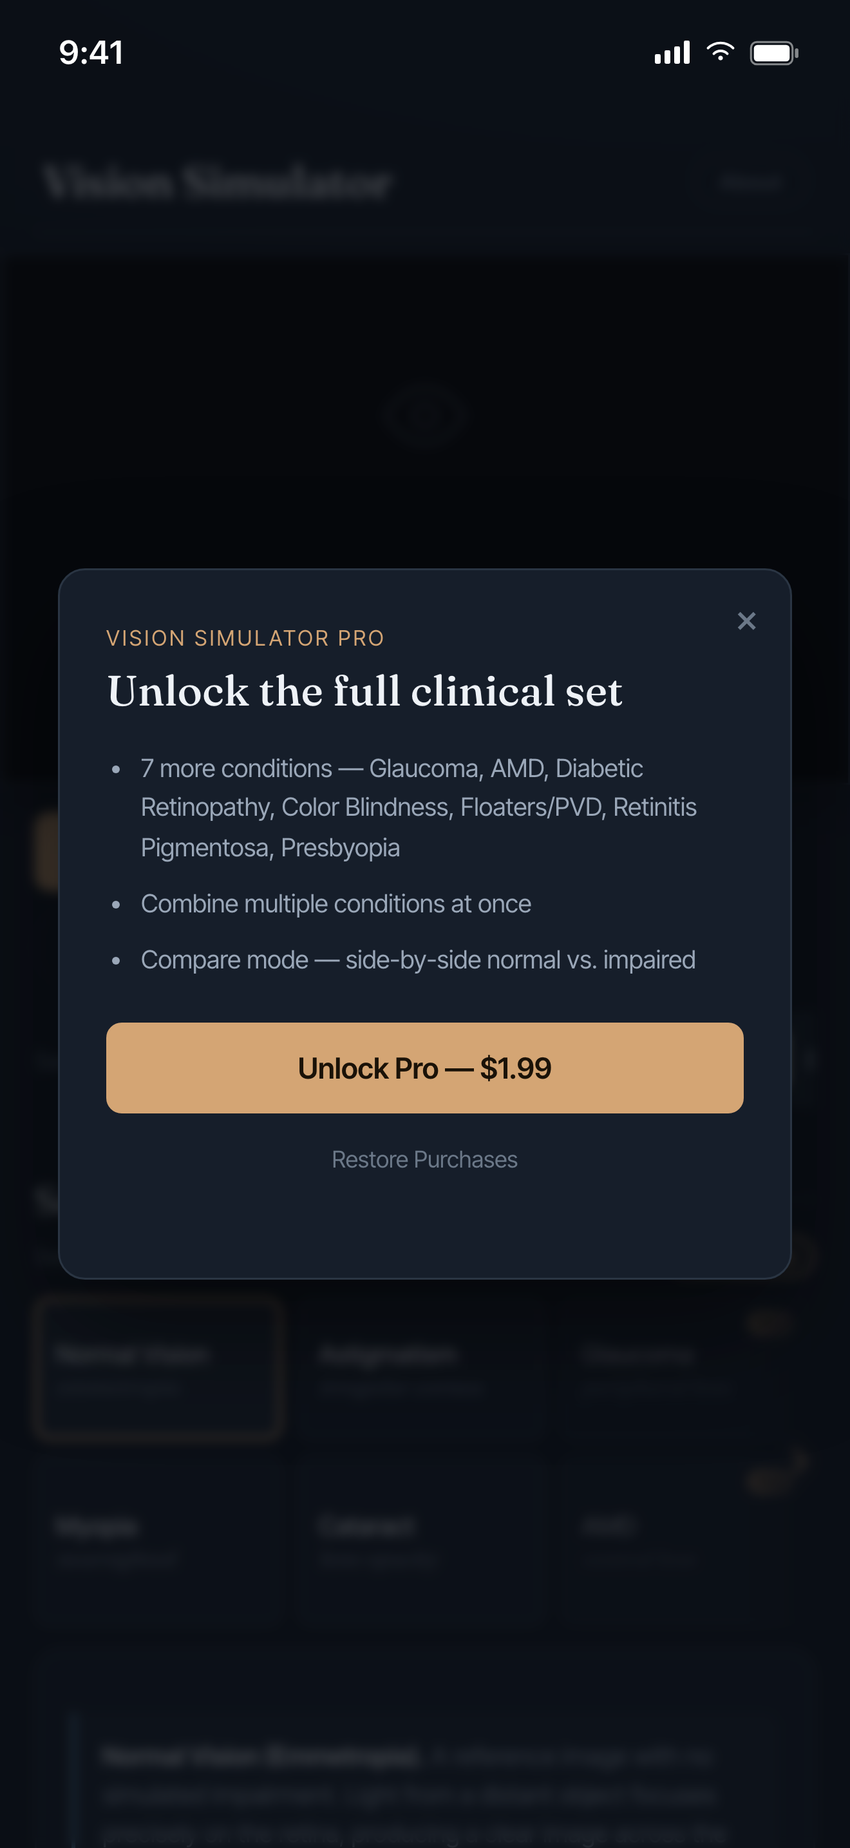
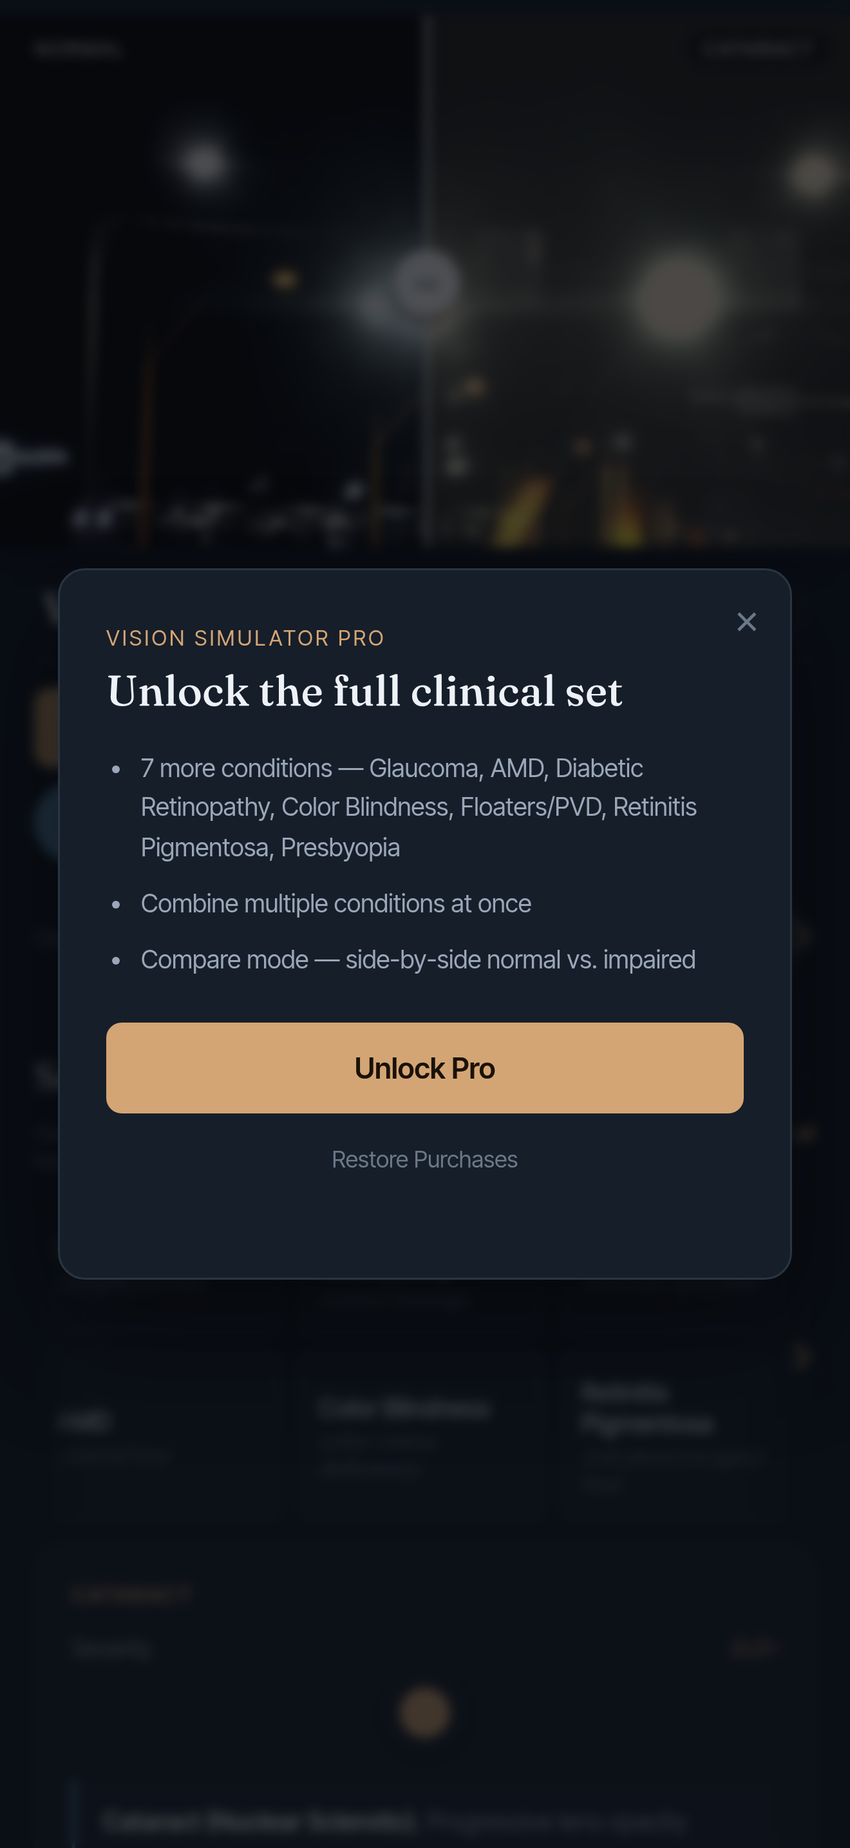
Remove the owner's name and old prices from Vision Simulator.
User-facing copy now says Vision Simulator App, built by an optometrist, and marketing images no longer show a price.

diff --git a/vision-simulator/index.html b/vision-simulator/index.html
@@ -5,8 +5,8 @@
 <meta name="viewport" content="width=device-width, initial-scale=1.0, maximum-scale=1.0, user-scalable=no, viewport-fit=cover">
 <meta name="apple-mobile-web-app-capable" content="yes">
 <meta name="theme-color" content="#0f1620">
-<title>Vision Simulator by Dr. Evans</title>
-<meta name="description" content="See cataracts, glaucoma, AMD, and other eye conditions through a clinically informed simulator by Dr. Ryan Evans, OD. Free on the App Store for iPhone and iPad.">
+<title>Vision Simulator: Eye Disease</title>
+<meta name="description" content="See cataracts, glaucoma, AMD, and other eye conditions through a clinically informed simulator built by an optometrist. Free on the App Store for iPhone and iPad.">
 <link rel="canonical" href="https://rjlcevans.com/vision-simulator/">
 <meta name="apple-itunes-app" content="app-id=6772865195">
 <link rel="preconnect" href="https://fonts.googleapis.com">
@@ -641,11 +641,11 @@
 </style>
   <meta property="og:type" content="website">
   <meta property="og:url" content="https://rjlcevans.com/vision-simulator/">
-  <meta property="og:title" content="Vision Simulator by Dr. Evans">
-  <meta property="og:description" content="See cataracts, glaucoma, AMD, and other eye conditions the way patients do. A clinically informed simulator by Dr. Ryan Evans, OD — free on the App Store.">
+  <meta property="og:title" content="Vision Simulator: Eye Disease">
+  <meta property="og:description" content="See cataracts, glaucoma, AMD, and other eye conditions the way patients do. A clinically informed simulator built by an optometrist — free on the App Store.">
   <meta property="og:image" content="https://rjlcevans.com/vision-simulator/visionsim-icon-1024.PNG">
   <meta name="twitter:card" content="summary_large_image">
-  <meta name="twitter:title" content="Vision Simulator by Dr. Evans">
+  <meta name="twitter:title" content="Vision Simulator: Eye Disease">
   <meta name="twitter:description" content="See cataracts, glaucoma, AMD, and other eye conditions the way patients do. Free on the App Store.">
   <meta name="twitter:image" content="https://rjlcevans.com/vision-simulator/visionsim-icon-1024.PNG">
 <script src="shell-detect.js?v=20261019"></script>
@@ -668,15 +668,14 @@
 <body>
 <div id="storeGate">
   <div class="gate-card">
-    <p class="eyebrow">Dr. Ryan Evans, OD</p>
+    <p class="eyebrow">Built by an optometrist</p>
     <h1>Vision Simulator</h1>
     <p class="sub">See cataracts, glaucoma, macular degeneration, and other eye conditions the way patients do. The simulator runs in the iPhone and iPad app.</p>
-    <a class="btn primary" id="storeGateBtn" href="https://apps.apple.com/us/app/vision-simulator-by-dr-evans/id6772865195">View on the App Store</a>
+    <a class="btn primary" id="storeGateBtn" href="https://apps.apple.com/app/id6772865195">View on the App Store</a>
     <p class="gate-note" id="storeGateNote" hidden>Opening the App Store…</p>
-    <a class="gate-home" href="https://rjlcevans.com/">Evans Family home</a>
   </div>
 </div>
-<a href="/" id="backToSite" style="position:fixed;top:14px;left:14px;z-index:9999;background:rgba(0,0,0,.38);backdrop-filter:blur(8px);-webkit-backdrop-filter:blur(8px);color:#fff;text-decoration:none;padding:6px 14px;border-radius:20px;font-size:.85rem;font-weight:500;letter-spacing:.01em;transition:background .2s" onmouseover="this.style.background='rgba(0,0,0,.65)'" onmouseout="this.style.background='rgba(0,0,0,.38)'">← Evans Family</a>
+<a href="/" id="backToSite" style="position:fixed;top:14px;left:14px;z-index:9999;background:rgba(0,0,0,.38);backdrop-filter:blur(8px);-webkit-backdrop-filter:blur(8px);color:#fff;text-decoration:none;padding:6px 14px;border-radius:20px;font-size:.85rem;font-weight:500;letter-spacing:.01em;transition:background .2s" onmouseover="this.style.background='rgba(0,0,0,.65)'" onmouseout="this.style.background='rgba(0,0,0,.38)'">← rjlcevans.com</a>
 <div class="wrap">
 
   <header class="hero">
@@ -687,9 +686,9 @@
     <p class="eyebrow">Patient education · Educational use only</p>
     <h1>How the World Looks <em>Through Other Eyes</em></h1>
     <p class="sub">A clinically-informed simulator for refractive error, cataract, glaucoma, age-related macular degeneration, diabetic retinopathy, and vitreous floaters. Use the camera or upload an image to explore.</p>
-    <span class="credit">Built by Dr. Ryan Evans, OD</span>
+    <span class="credit">Built by an optometrist</span>
     <div id="appStoreBadge" style="margin-top:14px;">
-      <a href="https://apps.apple.com/app/vision-simulator-by-dr-evans/id6772865195" target="_blank" rel="noopener noreferrer">
+      <a href="https://apps.apple.com/app/id6772865195" target="_blank" rel="noopener noreferrer">
         <img src="https://tools.applemediaservices.com/api/badges/download-on-the-app-store/black/en-us?size=250x83" alt="Download on the App Store" style="height:32px;display:inline-block;">
       </a>
     </div>
@@ -776,7 +775,7 @@
 
   <h2 class="section-title">Select Condition</h2>
   <div class="conditions-header">
-    <p class="conditions-hint">Swipe for all 11 · tap to switch · Combine to layer several</p>
+    <p class="conditions-hint">Swipe for every condition · tap to switch · Combine to layer several</p>
     <button type="button" class="combine-conditions-btn compare-switch" id="compareSwitch" role="switch" aria-checked="false"><span>Compare</span><span class="vs-switch" aria-hidden="true"></span></button>
     <button type="button" class="combine-conditions-btn" id="combineConditionsBtn" aria-pressed="false">Combine: Off</button>
     <button type="button" class="unlock-pro-btn" id="unlockProBtn">Unlock Pro</button>
@@ -807,8 +806,8 @@
   </div>
 
   <footer>
-    <span>© Dr. Ryan Evans, OD · For educational demonstration only · Not a diagnostic tool</span>
-    <a href="https://rjlcevans.com/" id="homeLink">← Return to Evans Family Home</a>
+    <span>© Vision Simulator App · For educational demonstration only · Not a diagnostic tool</span>
+    <a href="https://rjlcevans.com/" id="homeLink">← rjlcevans.com</a>
     <a href="https://rjlcevans.com/privacy" id="privacyLink" style="display:none;">Privacy Policy</a>
   </footer>
 </div>
@@ -820,9 +819,9 @@
     <button type="button" class="sheet-done" id="aboutDone">Done</button>
     <div class="sheet-head">
       <img src="icon.svg" alt="">
-      <div><h3 class="sheet-title" id="aboutTitle">Vision Simulator</h3><p class="sheet-by">By Dr. Ryan Evans, OD</p></div>
+      <div><h3 class="sheet-title" id="aboutTitle">Vision Simulator</h3><p class="sheet-by">By an optometrist</p></div>
     </div>
-    <p class="sheet-body">See how 11 common eye conditions can change everyday vision, from cataract glare and glaucoma's tunnel vision to the central loss of macular degeneration. Use the live camera, a built-in scene, or your own photo.</p>
+    <p class="sheet-body">See how 10 common eye conditions can change everyday vision, from cataract glare and glaucoma's tunnel vision to the central loss of macular degeneration. Use the live camera, a built-in scene, or your own photo.</p>
     <p class="sheet-note"><strong>For education only.</strong> These simulations approximate how a condition can affect sight. They are not a diagnosis or a vision test. See an eye doctor about any change in your vision.</p>
     <div class="sheet-list">
       <button type="button" id="aboutRestore">Restore Purchases <span class="chev" aria-hidden="true">›</span></button>
@@ -2992,7 +2991,7 @@ window.__vsBootSimulator = () => {
 </script>
 
 <script>
-  const STORE_URL = 'https://apps.apple.com/us/app/vision-simulator-by-dr-evans/id6772865195';
+  const STORE_URL = 'https://apps.apple.com/app/id6772865195';
   let storeRedirectTimer = null;
 
   function applyNativeChrome() {

diff --git a/vision-simulator-staging/index.html b/vision-simulator-staging/index.html
@@ -6,7 +6,7 @@
 <meta name="viewport" content="width=device-width, initial-scale=1.0, maximum-scale=1.0, user-scalable=no, viewport-fit=cover">
 <meta name="apple-mobile-web-app-capable" content="yes">
 <meta name="theme-color" content="#0f1620">
-<title>Vision Impairment Simulator — Dr. Ryan Evans, OD</title>
+<title>Vision Simulator: Eye Disease</title>
 <link rel="preconnect" href="https://fonts.googleapis.com">
 <link rel="preconnect" href="https://fonts.gstatic.com" crossorigin>
 <link href="https://fonts.googleapis.com/css2?family=Fraunces:opsz,wght@9..144,400;9..144,500;9..144,600;9..144,700&family=Inter+Tight:wght@400;500;600&display=swap" rel="stylesheet">
@@ -604,16 +604,16 @@
 </style>
   <meta property="og:type" content="website">
   <meta property="og:url" content="https://rjlcevans.com/vision-simulator/">
-  <meta property="og:title" content="Vision Impairment Simulator | rjlcevans.com">
+  <meta property="og:title" content="Vision Simulator: Eye Disease">
   <meta property="og:description" content="See the world through different eyes — experience cataracts, glaucoma, AMD, floaters, and refractive error in real time.">
-  <meta property="og:image" content="https://rjlcevans.com/family.jpg">
+  <meta property="og:image" content="https://rjlcevans.com/vision-simulator/visionsim-icon-1024.PNG">
   <meta name="twitter:card" content="summary_large_image">
-  <meta name="twitter:title" content="Vision Impairment Simulator | rjlcevans.com">
+  <meta name="twitter:title" content="Vision Simulator: Eye Disease">
   <meta name="twitter:description" content="See the world through different eyes — experience cataracts, glaucoma, AMD, floaters, and refractive error in real time.">
-  <meta name="twitter:image" content="https://rjlcevans.com/family.jpg">
+  <meta name="twitter:image" content="https://rjlcevans.com/vision-simulator/visionsim-icon-1024.PNG">
 </head>
 <body>
-<a href="/" id="backToSite" style="position:fixed;top:14px;left:14px;z-index:9999;background:rgba(0,0,0,.38);backdrop-filter:blur(8px);-webkit-backdrop-filter:blur(8px);color:#fff;text-decoration:none;padding:6px 14px;border-radius:20px;font-size:.85rem;font-weight:500;letter-spacing:.01em;transition:background .2s" onmouseover="this.style.background='rgba(0,0,0,.65)'" onmouseout="this.style.background='rgba(0,0,0,.38)'">← Evans Family</a>
+<a href="/" id="backToSite" style="position:fixed;top:14px;left:14px;z-index:9999;background:rgba(0,0,0,.38);backdrop-filter:blur(8px);-webkit-backdrop-filter:blur(8px);color:#fff;text-decoration:none;padding:6px 14px;border-radius:20px;font-size:.85rem;font-weight:500;letter-spacing:.01em;transition:background .2s" onmouseover="this.style.background='rgba(0,0,0,.65)'" onmouseout="this.style.background='rgba(0,0,0,.38)'">← rjlcevans.com</a>
 <div class="wrap">
 
   <header class="hero">
@@ -624,9 +624,9 @@
     <p class="eyebrow">Patient education · Educational use only</p>
     <h1>How the World Looks <em>Through Other Eyes</em></h1>
     <p class="sub">A clinically-informed simulator for refractive error, cataract, glaucoma, age-related macular degeneration, diabetic retinopathy, and vitreous floaters. Use the camera or upload an image to explore.</p>
-    <span class="credit">Built by Dr. Ryan Evans, OD</span>
+    <span class="credit">Built by an optometrist</span>
     <div id="appStoreBadge" style="margin-top:14px;">
-      <a href="https://apps.apple.com/app/vision-simulator-by-dr-evans/id6772865195" target="_blank" rel="noopener noreferrer">
+      <a href="https://apps.apple.com/app/id6772865195" target="_blank" rel="noopener noreferrer">
         <img src="https://tools.applemediaservices.com/api/badges/download-on-the-app-store/black/en-us?size=250x83" alt="Download on the App Store" style="height:32px;display:inline-block;">
       </a>
     </div>
@@ -713,7 +713,7 @@
 
   <h2 class="section-title">Select Condition</h2>
   <div class="conditions-header">
-    <p class="conditions-hint">Swipe for all 11 · tap to switch · Combine to layer several</p>
+    <p class="conditions-hint">Swipe for every condition · tap to switch · Combine to layer several</p>
     <button type="button" class="combine-conditions-btn compare-switch" id="compareSwitch" role="switch" aria-checked="false"><span>Compare</span><span class="vs-switch" aria-hidden="true"></span></button>
     <button type="button" class="combine-conditions-btn" id="combineConditionsBtn" aria-pressed="false">Combine: Off</button>
     <button type="button" class="unlock-pro-btn" id="unlockProBtn">Unlock Pro</button>
@@ -744,8 +744,8 @@
   </div>
 
   <footer>
-    <span>© Dr. Ryan Evans, OD · For educational demonstration only · Not a diagnostic tool</span>
-    <a href="https://rjlcevans.com/" id="homeLink">← Return to Evans Family Home</a>
+    <span>© Vision Simulator App · For educational demonstration only · Not a diagnostic tool</span>
+    <a href="https://rjlcevans.com/" id="homeLink">← rjlcevans.com</a>
     <a href="https://rjlcevans.com/privacy" id="privacyLink" style="display:none;">Privacy Policy</a>
   </footer>
 </div>
@@ -757,9 +757,9 @@
     <button type="button" class="sheet-done" id="aboutDone">Done</button>
     <div class="sheet-head">
       <img src="icon.svg" alt="">
-      <div><h3 class="sheet-title" id="aboutTitle">Vision Simulator</h3><p class="sheet-by">By Dr. Ryan Evans, OD</p></div>
+      <div><h3 class="sheet-title" id="aboutTitle">Vision Simulator</h3><p class="sheet-by">By an optometrist</p></div>
     </div>
-    <p class="sheet-body">See how 11 common eye conditions can change everyday vision, from cataract glare and glaucoma's tunnel vision to the central loss of macular degeneration. Use the live camera, a built-in scene, or your own photo.</p>
+    <p class="sheet-body">See how 10 common eye conditions can change everyday vision, from cataract glare and glaucoma's tunnel vision to the central loss of macular degeneration. Use the live camera, a built-in scene, or your own photo.</p>
     <p class="sheet-note"><strong>For education only.</strong> These simulations approximate how a condition can affect sight. They are not a diagnosis or a vision test. See an eye doctor about any change in your vision.</p>
     <div class="sheet-list">
       <button type="button" id="aboutRestore">Restore Purchases <span class="chev" aria-hidden="true">›</span></button>

diff --git a/vision-simulator/screenshot-gen.html b/vision-simulator/screenshot-gen.html
@@ -104,7 +104,7 @@
 </svg>
 
 <div class="page-header">
-  <p class="page-eyebrow">Vision Impairment Simulator · Dr. Ryan Evans, OD</p>
+  <p class="page-eyebrow">Vision Simulator App · Built by an optometrist</p>
   <h1 class="page-title">App Store Screenshot Generator</h1>
   <p class="page-sub">1290 × 2796 px · iPhone 6.7" required size · Click any screenshot to download</p>
   <div class="btn-row">
@@ -142,7 +142,7 @@
       bullets: [
         '· Works on your live camera or any image',
         '· Drag the divider to reveal the difference',
-        '· 11 conditions · Stage-adjustable severity',
+        '· 10 conditions · Stage-adjustable severity',
       ]
     },
     {
@@ -167,7 +167,7 @@
       filter: 'glaucoma',
       filterArgs: [3],
       compare: false,
-      headline: '11 Conditions. Every Stage.',
+      headline: '10 Conditions. Every Stage.',
       sub: 'Glaucoma · AMD · Cataracts · RP · Diabetic Retinopathy · Color Blindness · Floaters · Presbyopia · More',
       bullets: [
         '· Evidence-based, OD-verified simulations',
@@ -333,7 +333,7 @@
       g.strokeStyle = '#b8aa90'; g.lineWidth = 1.5;
       g.beginPath(); g.moveTo(70,132); g.lineTo(c.width-70,132); g.stroke();
       let ry = 152;
-      [['Patient:', 'Jane Smith, DOB 03/14/1958'], ['Diagnosis:', 'H52.4 Presbyopia / H40.1 Glaucoma'], ['Provider:', 'Dr. R. Evans, OD  ·  Ref: SEE NOTES']].forEach(([lbl,val]) => {
+      [['Patient:', 'Jane Smith, DOB 03/14/1958'], ['Diagnosis:', 'H52.4 Presbyopia / H40.1 Glaucoma'], ['Provider:', 'An optometrist  ·  Ref: SEE NOTES']].forEach(([lbl,val]) => {
         g.font = '700 19px Georgia, serif'; g.fillStyle = '#34344a'; g.fillText(lbl, 70, ry);
         g.font = '400 19px Georgia, serif'; g.fillStyle = '#1a1a2a'; g.fillText(val, 70+g.measureText(lbl).width+8, ry);
         ry += 38;
@@ -663,7 +663,7 @@
     // Title
     ctx.font = '500 52px "Fraunces", serif';
     ctx.fillStyle = '#d4a574';
-    ctx.fillText('Dr. Ryan Evans, OD', OUT_W / 2, 138);
+    ctx.fillText('Vision Simulator App', OUT_W / 2, 138);
     ctx.restore();
 
     // Thin separator below branding
@@ -719,7 +719,7 @@
     ctx.fillStyle = '#6b7888';
     ctx.textAlign = 'center';
     ctx.textBaseline = 'middle';
-    ctx.fillText('Dr. Ryan Evans, OD  ·  rjlcevans.com', OUT_W / 2, 2700);
+    ctx.fillText('Built by an optometrist', OUT_W / 2, 2700);
     ctx.restore();
 
     // App Store badge area — simple decorative pill

diff --git a/vision-simulator/ipad-screenshots.html b/vision-simulator/ipad-screenshots.html
@@ -46,14 +46,14 @@ const SCREENS = [
     label: 'Screen 1 — Hero',
     file: 'visionsim-ipad-1-hero.png',
     eyebrow: 'VISION IMPAIRMENT SIMULATOR',
-    headline: '11 Conditions. Free to Start.',
-    sub: 'Built by Dr. Ryan Evans, OD — real-time simulation your patients finally understand',
+    headline: '10 Conditions. Free to Start.',
+    sub: 'Built by an optometrist — real-time simulation your patients finally understand',
     bullets: [
       '· Start camera or upload any image — results are instant',
       '· Reading test, eye chart, Amsler grid, and real-world scenes',
       '· Share simulations with patients, families, and colleagues',
     ],
-    bar: 'Built by Dr. Ryan Evans, OD  ·  rjlcevans.com',
+    bar: 'Built by an optometrist',
   },
   {
     img: 'screens/ipad-s2-amd-compare.png',
@@ -101,15 +101,15 @@ const SCREENS = [
     img: 'screens/ipad-s4-conditions-freepro.png',
     label: 'Screen 5 — Free + Pro',
     file: 'visionsim-ipad-5-free-pro.png',
-    eyebrow: '11 CONDITIONS · FREE + PRO',
+    eyebrow: '10 CONDITIONS · FREE + PRO',
     headline: 'Every Condition. Every Stage.',
-    sub: '4 common conditions free. Unlock 7 more, combining, and Compare for $1.99.',
+    sub: '4 common conditions free. Unlock 7 more, combining, and Compare.',
     bullets: [
       '· Free: Myopia, Astigmatism, Cataract & camera/upload',
       '· Pro: Glaucoma, AMD, Diabetic Retinopathy, RP & more',
-      '· One-time $1.99 unlock — no subscription',
+      '· One-time unlock — no subscription',
     ],
-    bar: 'Free to Start  ·  $1.99 Pro Unlock  ·  No Subscription',
+    bar: 'Free to Start  ·  Pro Unlock  ·  No Subscription',
   },
 ];
 

diff --git a/vision-simulator/iphone-screenshots.html b/vision-simulator/iphone-screenshots.html
@@ -48,14 +48,14 @@ const SCREENS = [
     label: 'Screen 1 — Hero',
     file: 'visionsim-1-hero.png',
     eyebrow: 'VISION IMPAIRMENT SIMULATOR',
-    headline: '11 Conditions. Free to Start.',
-    sub: 'Built by Dr. Ryan Evans, OD — real-time simulation your patients finally understand',
+    headline: '10 Conditions. Free to Start.',
+    sub: 'Built by an optometrist — real-time simulation your patients finally understand',
     bullets: [
       '· Start camera or upload any image — results are instant',
       '· Reading test, eye chart, Amsler grid, and real-world scenes',
       '· Share simulations with patients, families, and colleagues',
     ],
-    bar: 'Built by Dr. Ryan Evans, OD  ·  rjlcevans.com',
+    bar: 'Built by an optometrist',
   },
   {
     img: 'screens/s2-amd-compare.png',
@@ -103,15 +103,15 @@ const SCREENS = [
     img: 'screens/s4-conditions-freepro.png',
     label: 'Screen 5 — Free + Pro',
     file: 'visionsim-5-free-pro.png',
-    eyebrow: '11 CONDITIONS · FREE + PRO',
+    eyebrow: '10 CONDITIONS · FREE + PRO',
     headline: 'Every Condition. Every Stage.',
-    sub: '4 common conditions free. Unlock 7 more, combining, and Compare for $1.99.',
+    sub: '4 common conditions free. Unlock 7 more, combining, and Compare.',
     bullets: [
       '· Free: Myopia, Astigmatism, Cataract & camera/upload',
       '· Pro: Glaucoma, AMD, Diabetic Retinopathy, RP & more',
-      '· One-time $1.99 unlock — no subscription',
+      '· One-time unlock — no subscription',
     ],
-    bar: 'Free to Start  ·  $1.99 Pro Unlock  ·  No Subscription',
+    bar: 'Free to Start  ·  Pro Unlock  ·  No Subscription',
   },
 ];
 

diff --git a/vision-simulator-staging/privacy.html b/vision-simulator-staging/privacy.html
@@ -18,7 +18,7 @@
   <h1>Privacy Policy — Vision Simulator</h1>
   <div class="updated">Last updated: May 2026</div>
 
-  <p>Vision Simulator is an educational tool created by Dr. Ryan Evans, OD. We respect your privacy. In short: <strong>the app collects nothing about you, and your camera images never leave your device.</strong></p>
+  <p>Vision Simulator is an educational tool created by an optometrist. We respect your privacy. In short: <strong>the app collects nothing about you, and your camera images never leave your device.</strong></p>
 
   <h2>Camera Use</h2>
   <p>The app can use your device's camera so you can see how various vision conditions would affect a live view of your surroundings. The camera feed is processed <strong>entirely on your device, in real time</strong>. Camera images are never recorded, stored, or transmitted to us or to anyone else. Nothing from your camera leaves your device.</p>
@@ -39,7 +39,7 @@
   <p>Because the app collects no data whatsoever, it collects no data from children.</p>
 
   <h2>Contact</h2>
-  <p>If you have any questions about this privacy policy, please contact Dr. Ryan Evans, OD, through <a href="https://rjlcevans.com">rjlcevans.com</a>.</p>
+  <p>If you have any questions about this privacy policy, please contact us through <a href="https://rjlcevans.com">rjlcevans.com</a>.</p>
 
   <a class="back" href="https://rjlcevans.com">← Back to rjlcevans.com</a>
 </body>

diff --git a/vision-simulator/privacy.html b/vision-simulator/privacy.html
@@ -17,7 +17,7 @@
   <h1>Privacy Policy — Vision Simulator</h1>
   <div class="updated">Last updated: May 2026</div>
 
-  <p>Vision Simulator is an educational tool created by Dr. Ryan Evans, OD. We respect your privacy. In short: <strong>the app collects nothing about you, and your camera images never leave your device.</strong></p>
+  <p>Vision Simulator is an educational tool created by an optometrist. We respect your privacy. In short: <strong>the app collects nothing about you, and your camera images never leave your device.</strong></p>
 
   <h2>Camera Use</h2>
   <p>The app can use your device's camera so you can see how various vision conditions would affect a live view of your surroundings. The camera feed is processed <strong>entirely on your device, in real time</strong>. Camera images are never recorded, stored, or transmitted to us or to anyone else. Nothing from your camera leaves your device.</p>
@@ -38,7 +38,7 @@
   <p>Because the app collects no data whatsoever, it collects no data from children.</p>
 
   <h2>Contact</h2>
-  <p>If you have any questions about this privacy policy, please contact Dr. Ryan Evans, OD, through <a href="https://rjlcevans.com">rjlcevans.com</a>.</p>
+  <p>If you have any questions about this privacy policy, please contact us through <a href="https://rjlcevans.com">rjlcevans.com</a>.</p>
 
   <a class="back" href="https://rjlcevans.com">← Back to rjlcevans.com</a>
 </body>

diff --git a/vision-simulator/test/gate-behavior.test.js b/vision-simulator/test/gate-behavior.test.js
@@ -7,7 +7,7 @@ const path = require('path');
 const { chromium } = require('playwright');
 
 const ROOT = path.join(__dirname, '..');
-const STORE = 'https://apps.apple.com/us/app/vision-simulator-by-dr-evans/id6772865195';
+const STORE = 'https://apps.apple.com/app/id6772865195';
 
 function startServer() {
   return new Promise((resolve) => {
@@ -121,7 +121,7 @@ async function main() {
       assert.strictEqual(await page.locator('#storeGate h1').innerText(), 'Vision Simulator');
       assert.strictEqual(storeHits.length, 0, 'crawler must not be redirected');
       const og = await page.locator('meta[property="og:title"]').getAttribute('content');
-      assert.strictEqual(og, 'Vision Simulator by Dr. Evans');
+      assert.strictEqual(og, 'Vision Simulator: Eye Disease');
       await context.close();
     }
 
